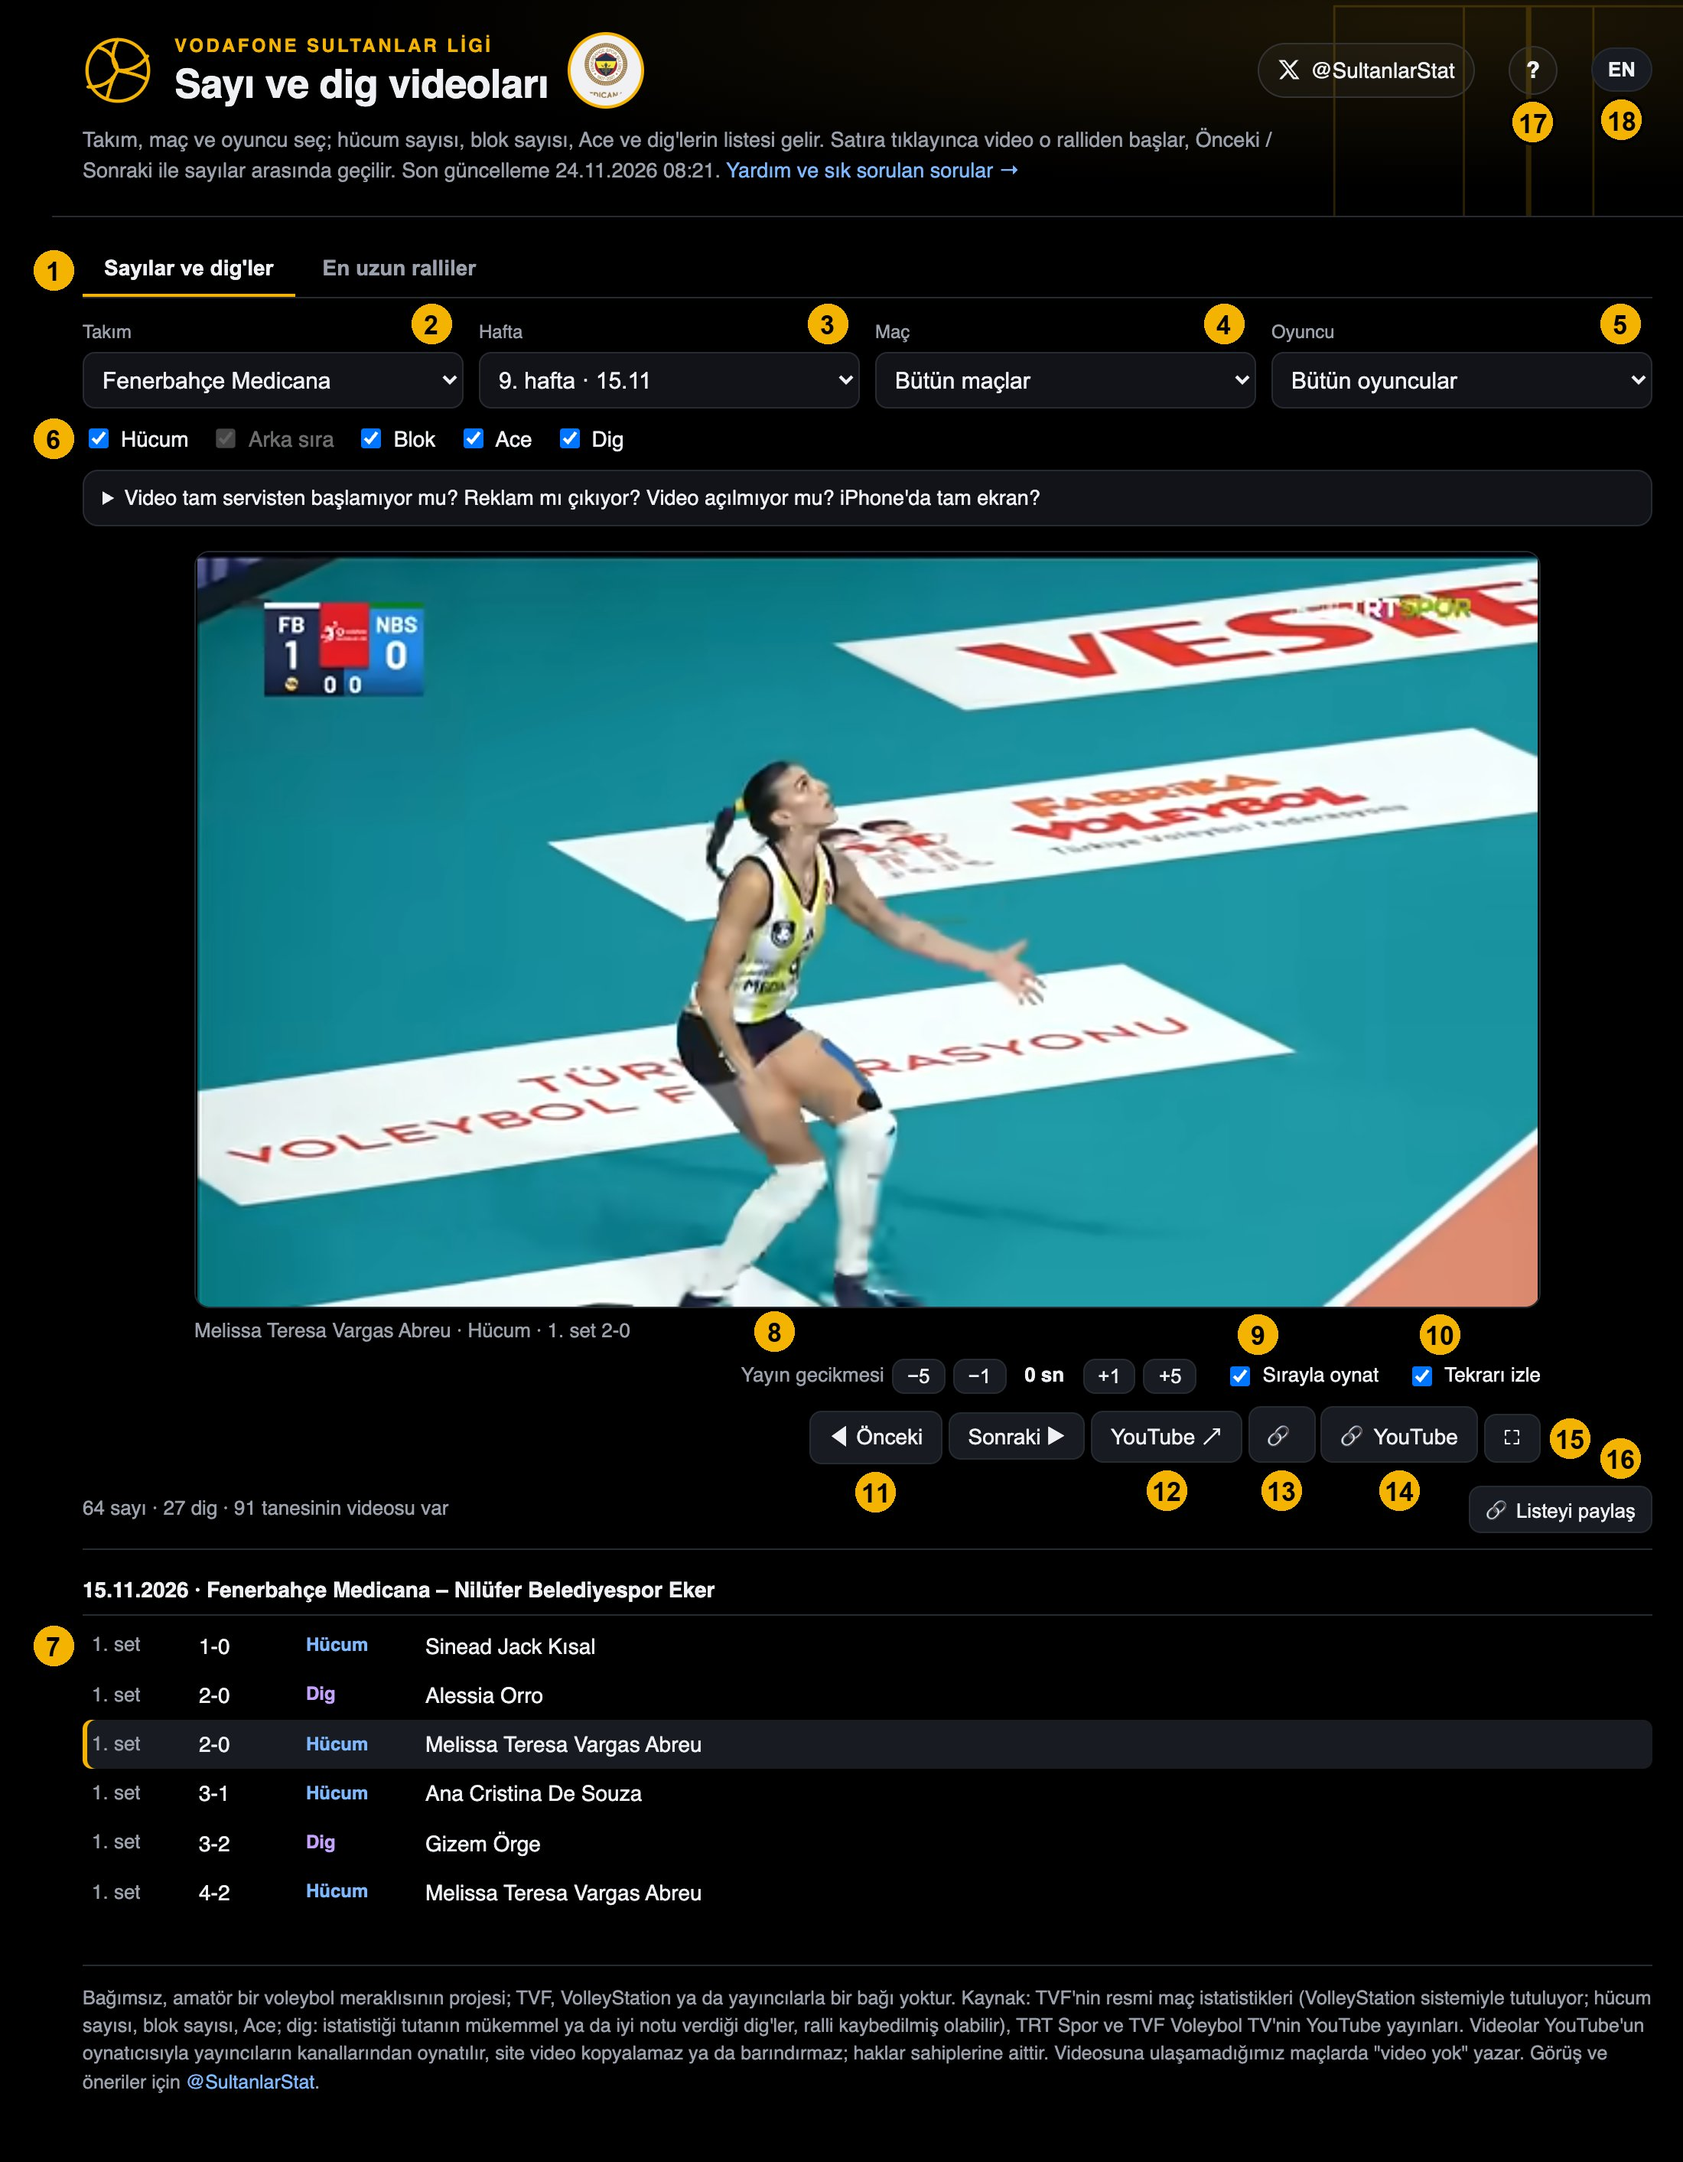
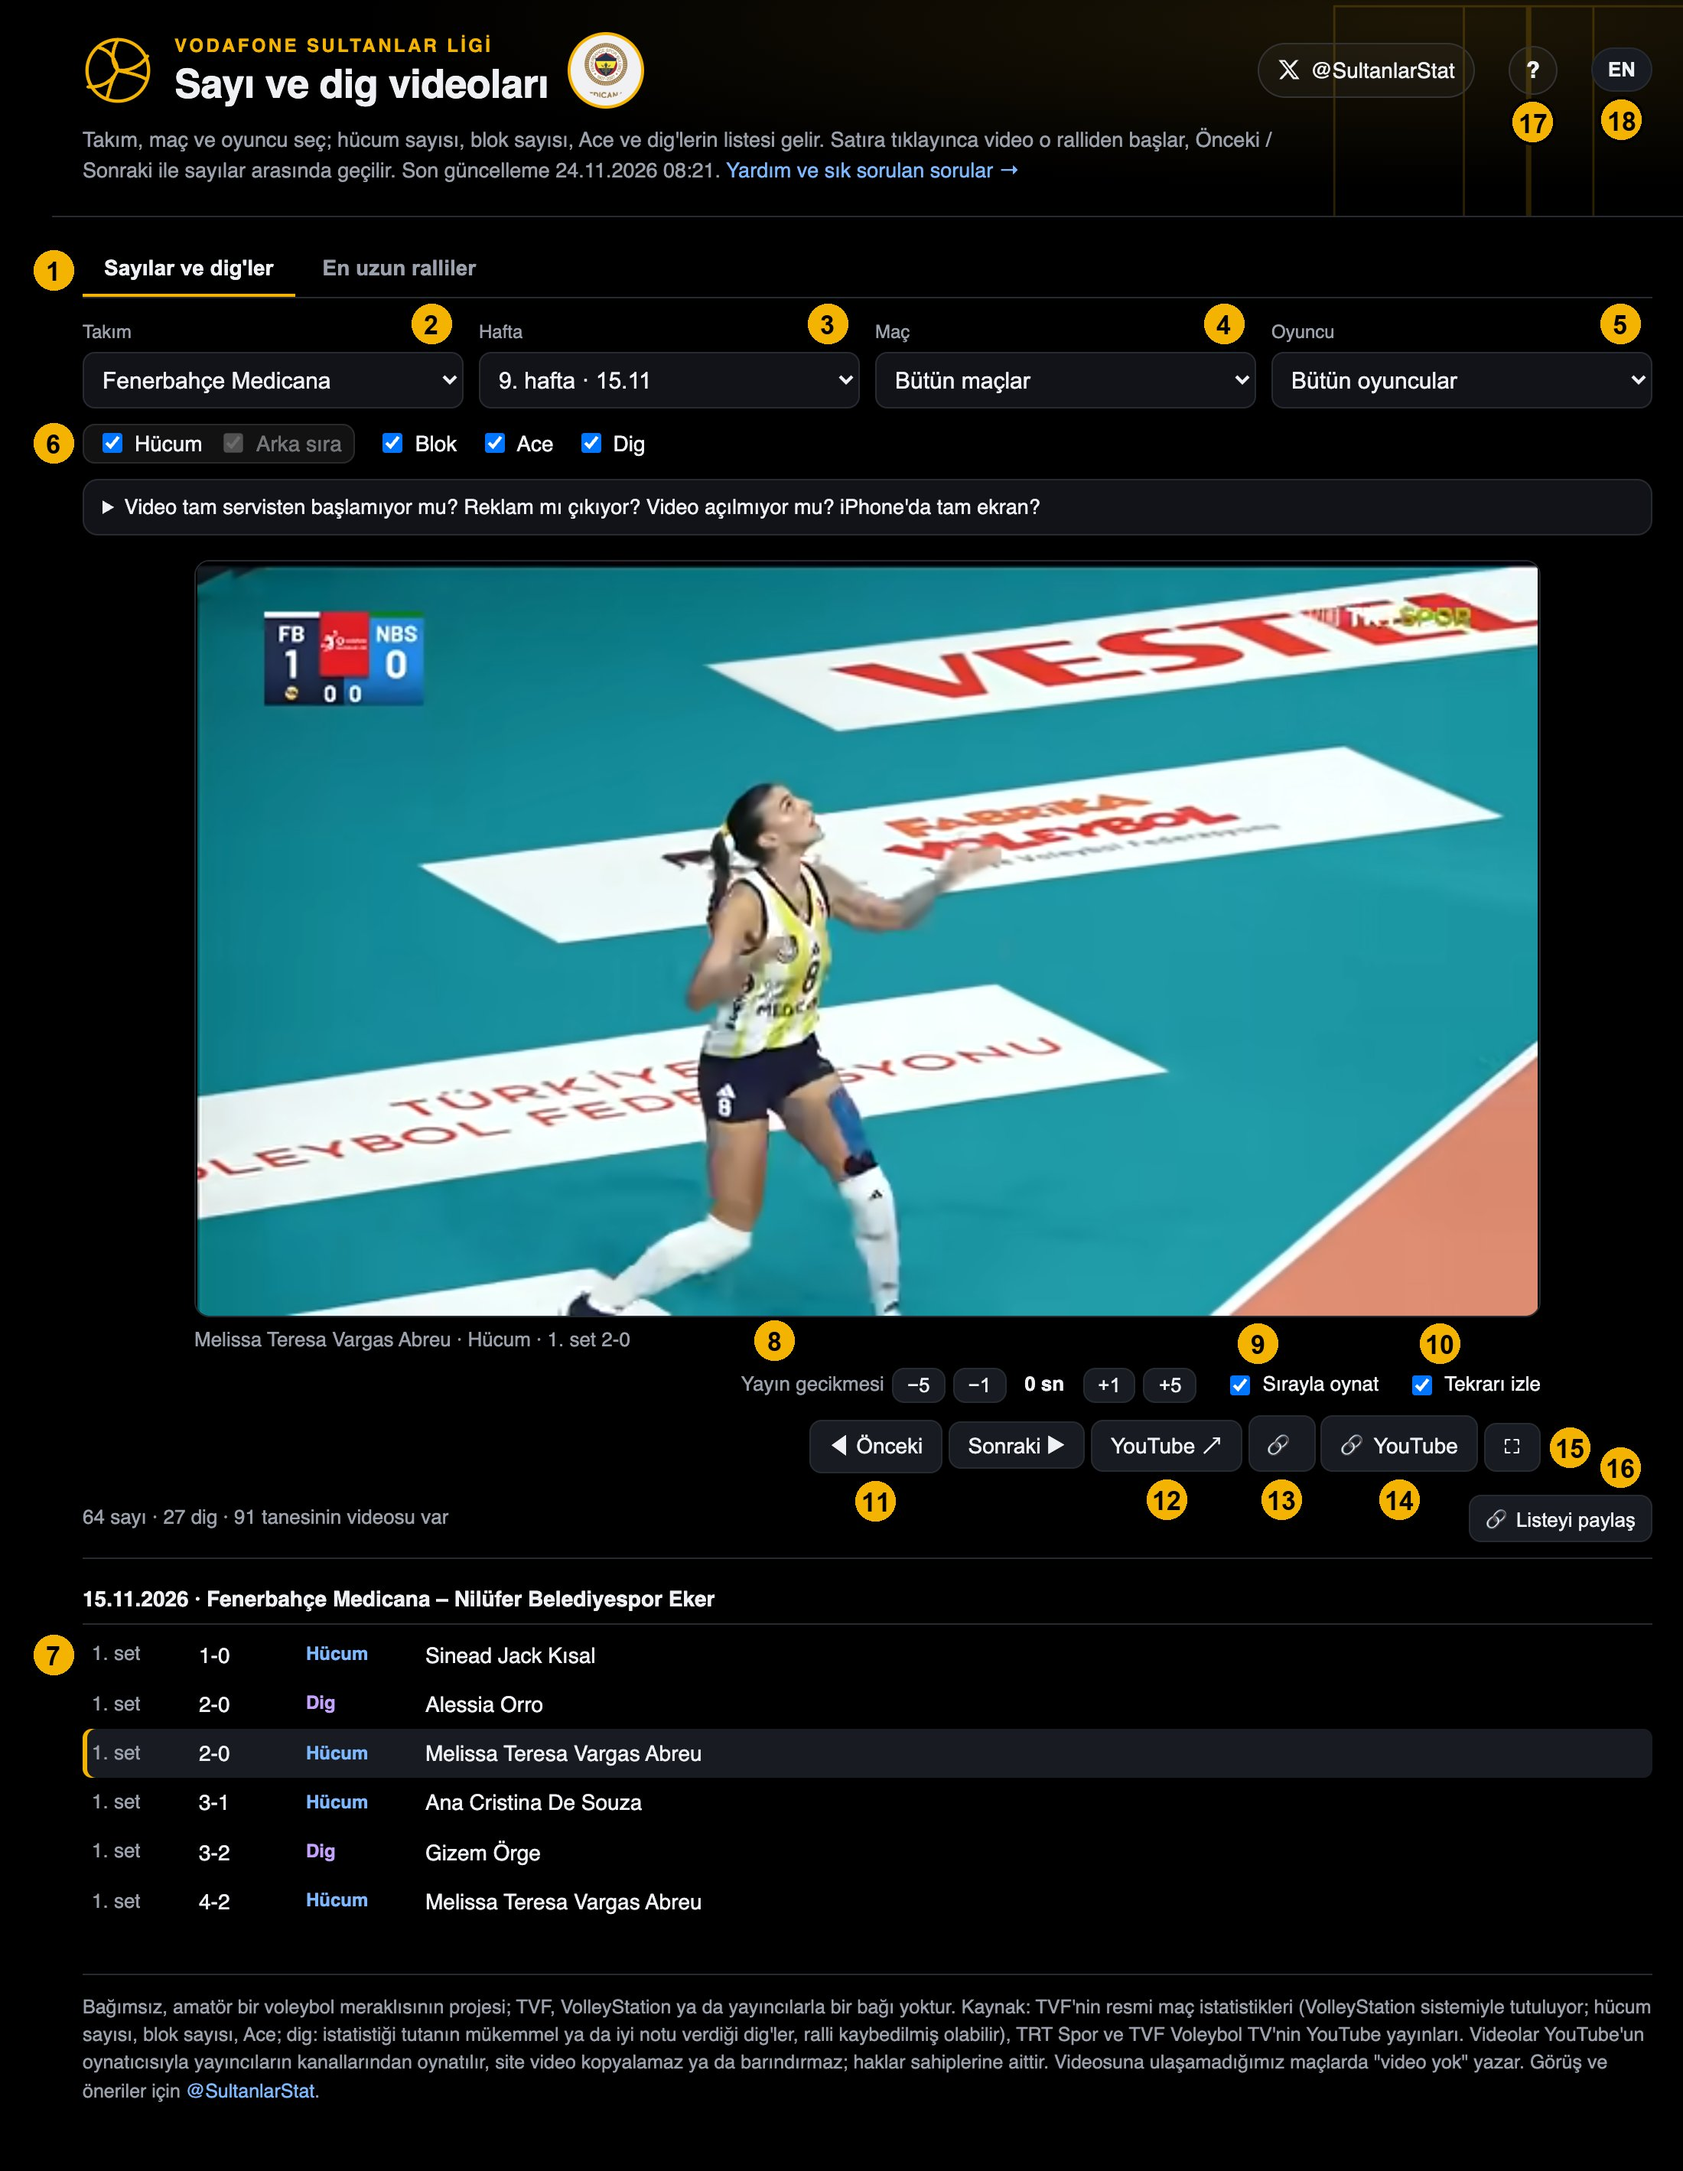
Türler: Hücum ve Arka sıra açık gri bir zeminde birlikte (Arka sıra Hücum'un alt kümesi)

diff --git a/index.html b/index.html
@@ -90,6 +90,9 @@
   .types { display:flex; gap:14px; flex-wrap:wrap; align-items:center; margin:6px 0 10px; font-size:14px; }
   .types label { display:inline-flex; gap:5px; align-items:center; color:var(--fg); font-size:14px; margin:0; }
   .types label:has(input:disabled) { opacity:.45; }
+  /* Arka sıra Hücum'un alt kümesi: ikisi açık gri bir zeminde birlikte (kullanıcının isteği, 24.11.2026) */
+  .types .grp { display:inline-flex; gap:10px; align-items:center; padding:2px 8px;
+    border-radius:8px; background:rgba(255,255,255,.07); border:1px solid rgba(255,255,255,.10); }
   .offset { display:inline-flex; gap:5px; align-items:center; font-size:13px; color:var(--mute); white-space:nowrap; }
   .offset button { padding:3px 9px; font-size:13px; }
   .offset b { color:var(--fg); min-width:40px; text-align:center; }
@@ -227,8 +230,8 @@
       <select id="kac"><option>10</option><option selected>20</option><option>50</option></select></div>
   </div>
   <div class="types only-sayi">
-    <label><input type="checkbox" value="Hücum" checked> <span data-t="tur_hucum">Hücum</span></label>
-    <label data-it="arka_title" title="Arka sıradaki oyuncunun (3 m gerisinden) hücum sayıları"><input type="checkbox" value="Arka" checked> <span data-t="tur_arka">Arka sıra</span></label>
+    <span class="grp"><label><input type="checkbox" value="Hücum" checked> <span data-t="tur_hucum">Hücum</span></label>
+    <label data-it="arka_title" title="Arka sıradaki oyuncunun (3 m gerisinden) hücum sayıları"><input type="checkbox" value="Arka" checked> <span data-t="tur_arka">Arka sıra</span></label></span>
     <label><input type="checkbox" value="Blok" checked> <span data-t="tur_blok">Blok</span></label>
     <label><input type="checkbox" value="Ace" checked> <span data-t="tur_ace">Ace</span></label>
     <label data-it="dig_title" title="Mükemmel ve iyi dig'ler; ralli kaybedilmiş olabilir"><input type="checkbox" value="Dig" checked> <span data-t="tur_dig">Dig</span></label>
